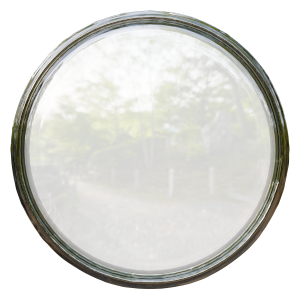
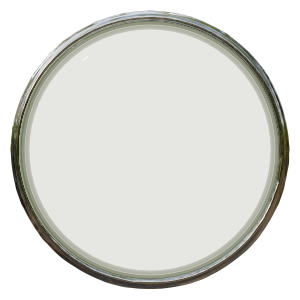
Added a new shader for a topo mini-map.

diff --git a/src/Scene_IC_Camp.cpp b/src/Scene_IC_Camp.cpp
@@ -131,41 +131,52 @@ bool Scene_IC_Camp::shouldHeadlightsBeOn() const
 
 void Scene_IC_Camp::updateMinimapTexture()
 {
-    if (m_minimapTexture.getSize().x != m_minimapTextureSize || m_minimapTexture.getSize().y != m_minimapTextureSize)
+    if (m_minimapTexture.getSize().x != m_minimapTextureSize ||
+        m_minimapTexture.getSize().y != m_minimapTextureSize)
     {
         m_minimapTexture = sf::RenderTexture({m_minimapTextureSize, m_minimapTextureSize});
     }
 
     const sf::Vector3f playerPos = m_player->get<CTransform3D>().pos;
-    const float texSize = static_cast<float>(m_minimapTextureSize);
-    const float center = texSize * 0.5f;
-    const float circleRadiusPx = center - 2.f;
+    const float texSize  = static_cast<float>(m_minimapTextureSize);  // 256
+    const float center   = texSize * 0.5f;
+    const float worldRadius = 12800.f;
 
+    // ── Draw the hillshaded topo layer via shader ──────────────────────────
     m_minimapTexture.clear(sf::Color::Transparent);
 
-    sf::CircleShape mintBase(circleRadiusPx);
-    mintBase.setOrigin({circleRadiusPx, circleRadiusPx});
-    mintBase.setPosition({center, center});
-    mintBase.setFillColor(sf::Color(198, 230, 205, 235));
-    m_minimapTexture.draw(mintBase);
+    sf::RectangleShape fullQuad({texSize, texSize});
 
-    // No contour drawing for now — keep a simple mint base for readability.
-    // Contour/heatmap will be added later when terrain data is richer.
+    m_topoMinimapShader.setUniform("u_playerXZ",
+        sf::Glsl::Vec2(playerPos.x, playerPos.z));
+    m_topoMinimapShader.setUniform("u_worldRadius",  worldRadius);
+    m_topoMinimapShader.setUniform("u_texSize",      texSize);
+    m_topoMinimapShader.setUniform("u_heightMax",    m_topdownMaxHeight);
+    m_topoMinimapShader.setUniform("u_reliefExaggeration", 1.0f);
+    Scene_IC_Camp::uploadTerrainLayersToShader(m_topoMinimapShader, "u_layers");
+    for (int i = 0; i < 16; ++i) {
+        m_topoMinimapShader.setUniform("u_activeLayerEnabled[" + std::to_string(i) + "]", 1.0f);
+    }
+    sf::RenderStates states;
+    states.shader = &m_topoMinimapShader;
+    m_minimapTexture.draw(fullQuad, states);
 
+    // ── Home marker (unchanged) ────────────────────────────────────────────
     sf::Vector2f delta = m_homeLocationXZ - sf::Vector2f(playerPos.x, playerPos.z);
     float dist = std::sqrt(delta.x * delta.x + delta.y * delta.y);
-
+    const float circleRadiusPx = center - 2.f;
     const float homeMarkerRadius = 5.5f;
     const float maxMarkerDist = std::max(0.f, circleRadiusPx - homeMarkerRadius - 1.f);
+    const float worldToPixel = circleRadiusPx / worldRadius;
+
     if (dist > 0.0001f)
     {
-        float worldToPixel = maxMarkerDist / m_minimapWorldRadius;
         sf::Vector2f homePx = sf::Vector2f(center, center) + delta * worldToPixel;
-
-        float markerDist = std::sqrt((homePx.x - center) * (homePx.x - center) + (homePx.y - center) * (homePx.y - center));
+        sf::Vector2f diff = homePx - sf::Vector2f(center, center);
+        float markerDist = std::sqrt(diff.x * diff.x + diff.y * diff.y);
         if (markerDist > maxMarkerDist)
         {
-            sf::Vector2f dir = (homePx - sf::Vector2f(center, center)) / markerDist;
+            sf::Vector2f dir = diff / markerDist;
             homePx = sf::Vector2f(center, center) + dir * maxMarkerDist;
         }
 

diff --git a/src/Scene_IC_Camp.h b/src/Scene_IC_Camp.h
@@ -58,6 +58,7 @@ protected:
     sf::Shader& m_bakeShader = Assets::Instance().getShader("TopoBake");
     sf::Shader& m_finalShader = Assets::Instance().getShader("TopoFinal");
     sf::Shader& m_topdownShader = Assets::Instance().getShader("TopoTopDown");
+    sf::Shader& m_topoMinimapShader = Assets::Instance().getShader("TopoMiniMap");
     sf::Shader& m_sky = Assets::Instance().getShader("Sky");
     sf::RenderTexture m_renderTexture;
     sf::RenderTexture m_bakeTexture;
